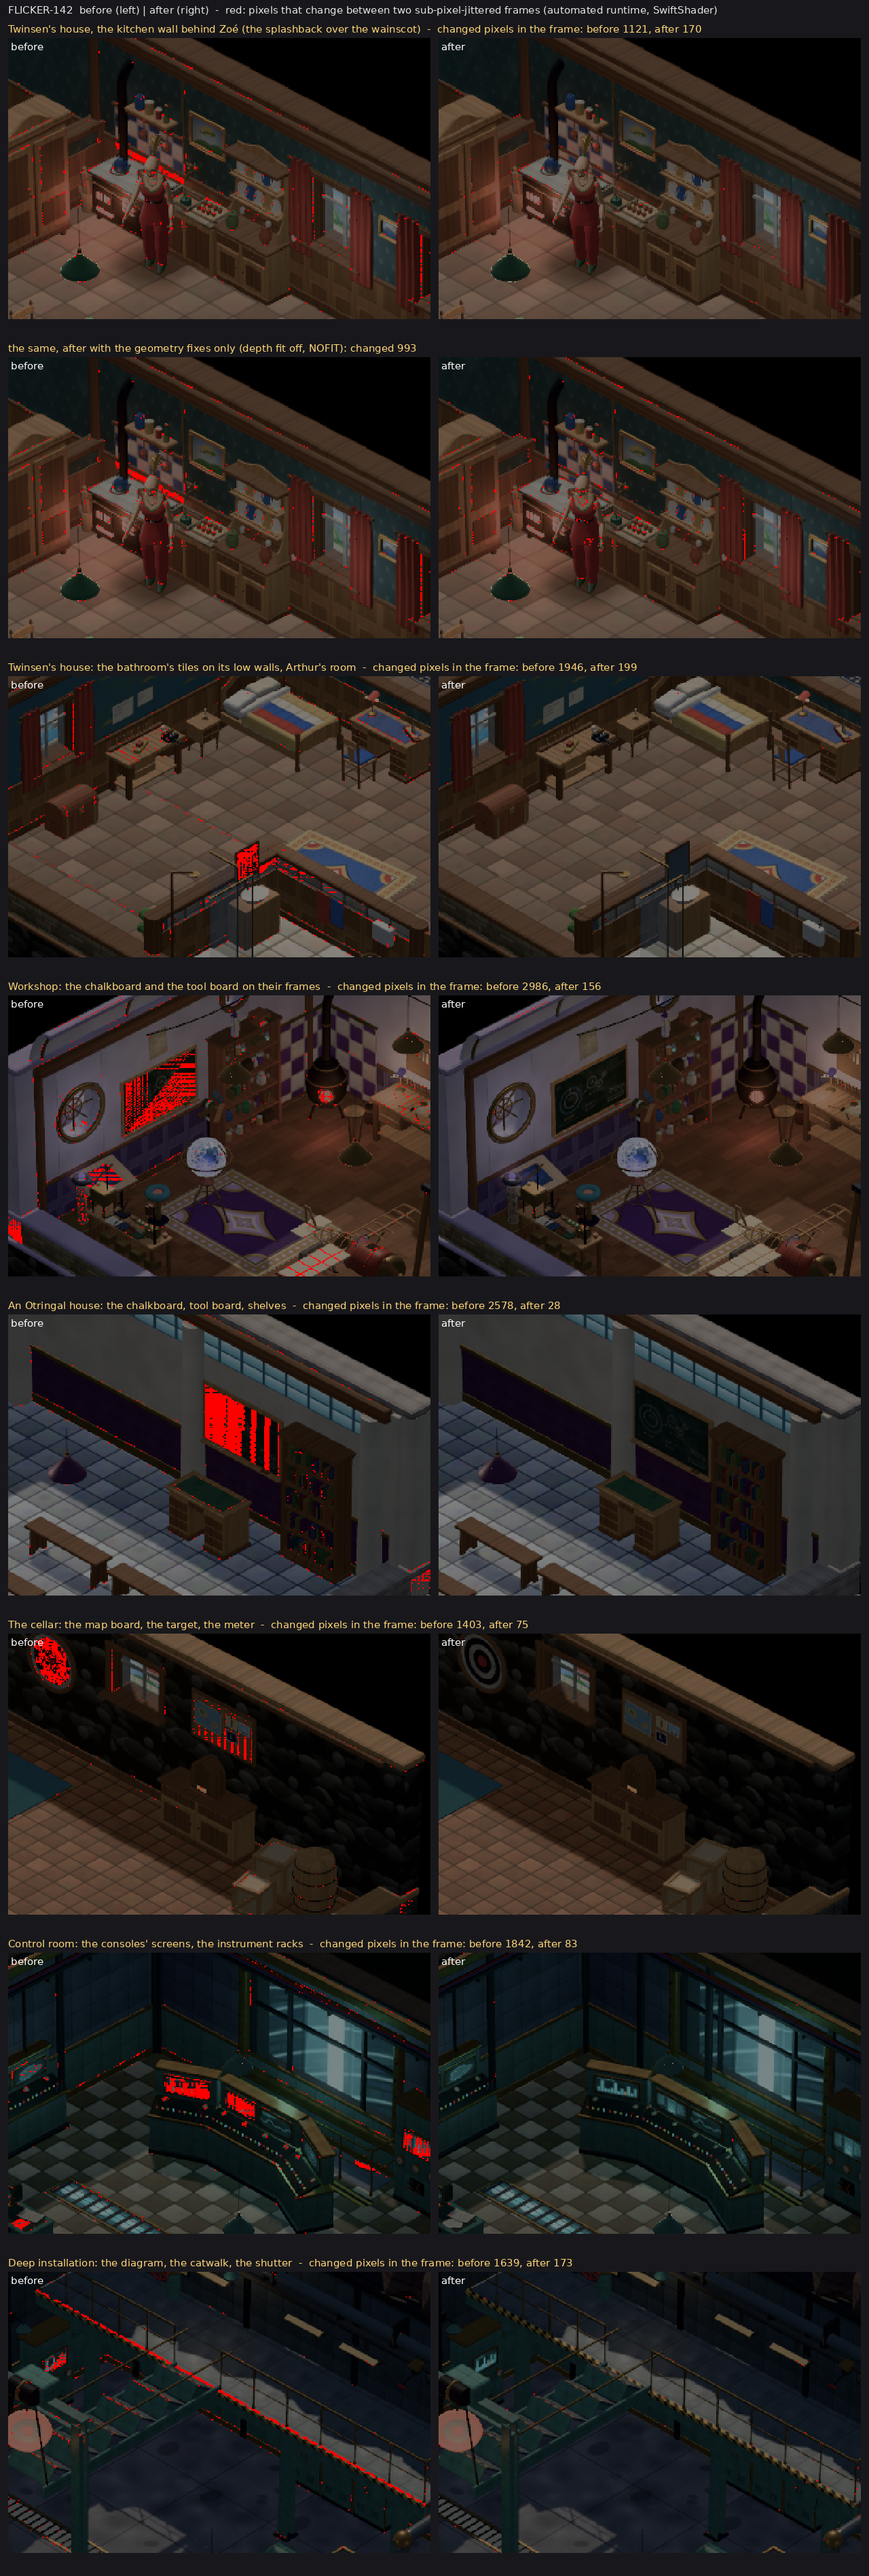
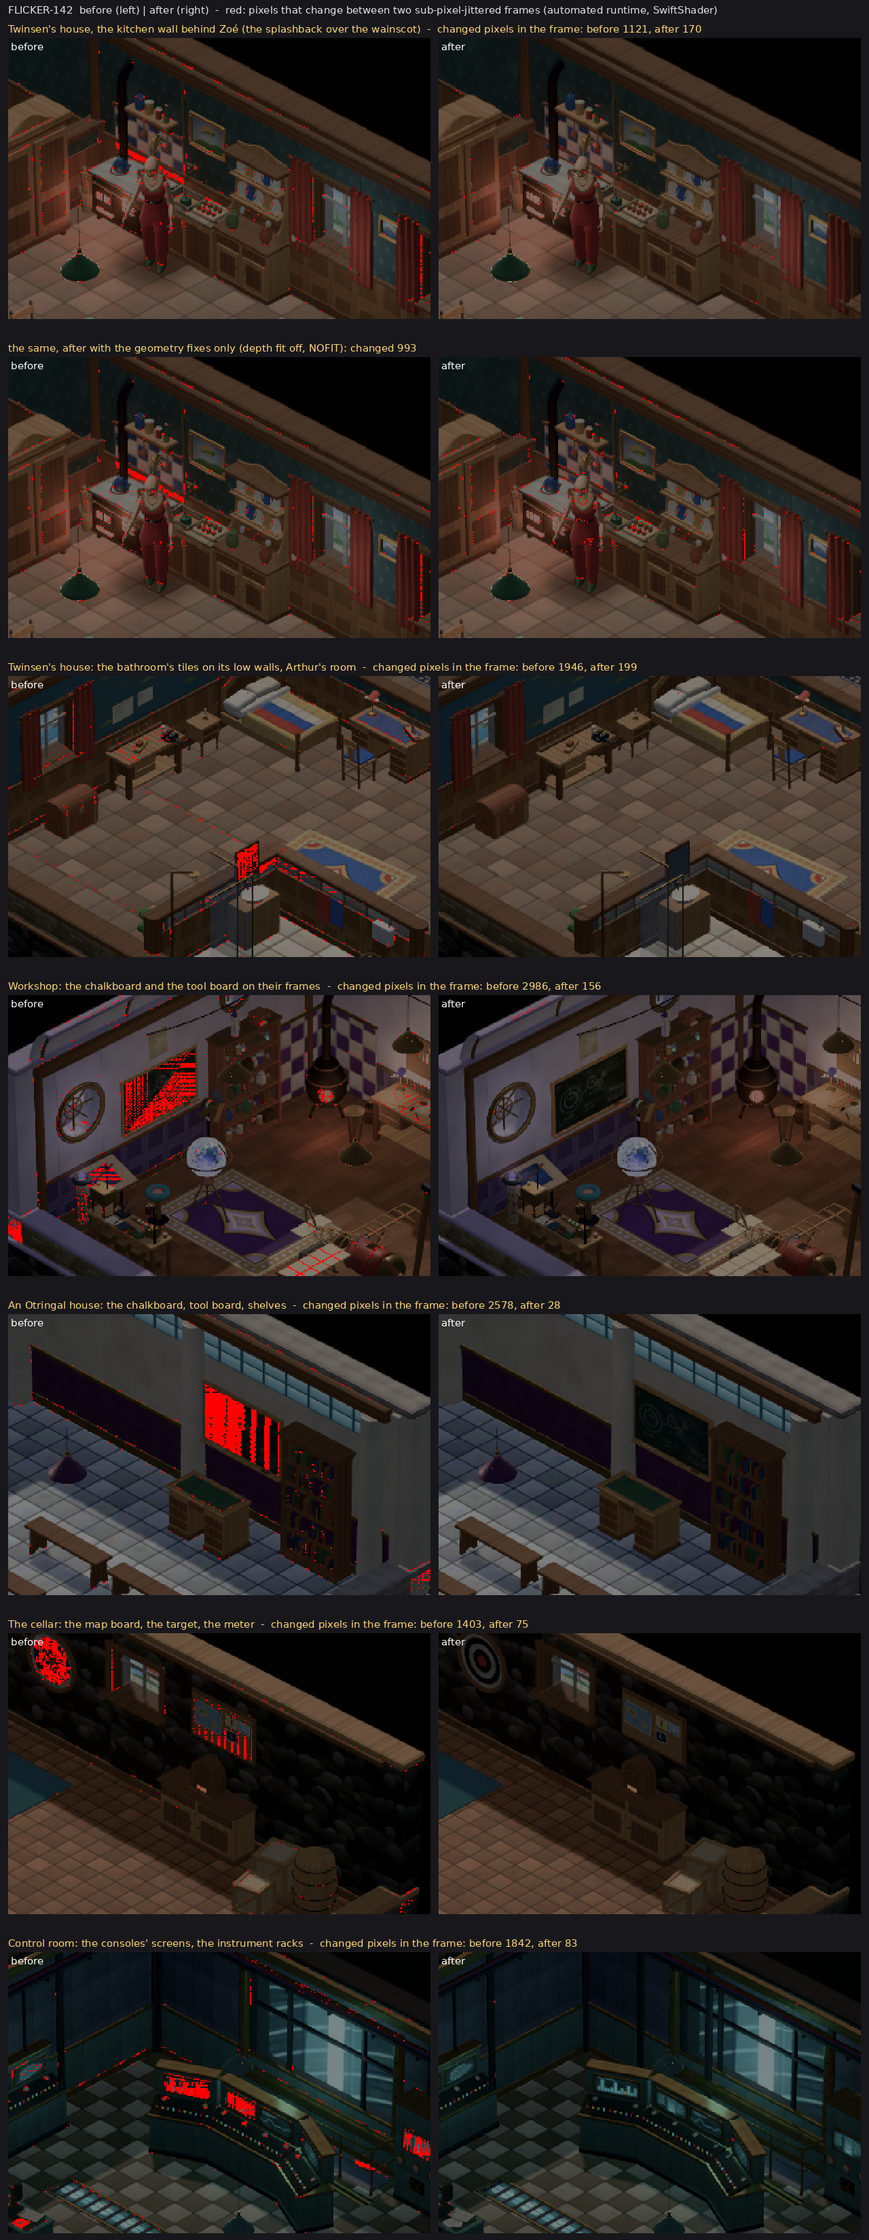
P142 merged (FLICKER-142: 137 rooms, 597 -> 0); the sheet's chapter 15-16 row cut (spoiler); checklist
Claude-Session: https://claude.ai/code/session_012GFEakZyL3XxjZKHRj5dFg

diff --git a/lba3/docs/lba-maturity/CHECKLIST.html b/lba3/docs/lba-maturity/CHECKLIST.html
@@ -10,10 +10,10 @@ h1{font-size:26px;margin:0 0 4px}h2{font-size:18px;margin:20px 0 6px;color:#2f7f
 <div class="i plain">גדולים: <b>0 / 5</b></div>
 <div class="i plain">מפרסמים ב־10 קטנים, ב־5 גדולים או כשאתה מבקש.</div>
 <h2>🔧 בעבודה</h2>
-<div class="i"><span class="b"></span>P142 הבהובים בחדרים: הקיר מאחורי זואי במטבח, ובדיקה של כל החדרים במשחק (מתחיל כשמתפנה עובד)</div>
 <div class="i"><span class="b"></span>P140 באיים: 45 מקומות לא נקיים בריצוף, וגם הצבע החם על הסלע בשולי האיים (P141)</div>
 <div class="i"><span class="b"></span>#66 שלב 2: 122 המקומות הנותרים, כולל מדרגות הכיכר</div>
 <h2>❓ מחכה לבחירה שלך</h2>
+<div class="i"><span class="b"></span>P142 ההבהובים בחדרים תוקנו בכל 137 החדרים: לראות את התמונות ולאשר (בבוקר)</div>
 <div class="i"><span class="b"></span>המעבד: מדרגה &quot;חסכונית במעבד&quot; (אנשים רחוקים זזים בחצי קצב, הצללים נשארים): להשאיר או להוריד (בבוקר)</div>
 <h2>💻 צריך את המחשב שלך</h2>
 <div class="i"><span class="b"></span>הוראות 76 (60 פריימים בלפטופ), 77 (לבדוק את v173), 78 (זמני פרקים מהשמירה, אחרי v174), 79 (ביצועים ב־GTX 1050, אחרי P137), 80 (מאיפה הריבוע השחור בטריילר)</div>

diff --git a/lba3/docs/lba-maturity/status.md b/lba3/docs/lba-maturity/status.md
@@ -220,7 +220,7 @@ v68 published 9.11 (1794197460-ceb9): Desert Island and the Hamalayi passes, DOO
 | P139 | 26.11 | Seen by the local agent: (a) the fort wall's stairs read too busy with the painted relief (DEPTH-LOOK e); (b) one frame with a big black square when switching to Aggressive (F3) in Citadel (maybe the capture) | ORDER-73, ORDER-75 | (b) the square is in both trailers (one frame after the F4 recorder resume), not reproduced in the game in automated runs; the frame removed from both trailers; cause open, order 80. (a) a candidate for the user |
 | P140 | 26.11 | "Still not complete!!!" on P136's own after picture (sheet row 2-3, Citadel north of the square, and the bottom of row 1): the paving ends in a ragged, noisy edge against a big dirt lot; a straight kerb faces open dirt; a kerbed dirt rectangle sits inside the paving. The user's crop: captures/paths-140/user-report.jpg | the user: "עדיין לא שלם!!!" | Citadel fixed and kept by the user (PATHS-140.md); the isles' 45 remaining faults + P141 + the 5 known-list questions: worker PATHS-140B. Was: worker PATHS-140, game-wide: every paving edge clean (kerbed or meeting a wall, lawn bed or water), no ragged paving-to-dirt edges, no dirt lots boxed in by paving; plus P136's answers: keep all 12 fixes; fix the WA-11 isle patches on every isle |
 | P141 | 26.11 | Found by the rock-edge worker, not the user: with the smooth rock edge, the isles' vertex tint (the sand-coloured shore tint and the grass) still follows the grid, leaving warm-tinted rock at the rims: Platform 141 m² (about 3857.7, 1810.3), Mosquibee 96, Under Celebration 57, Celebration 12 | ROCK-EDGES.md (Knartas patches, other isles) | open: after PATHS-140 (same file, zislands.js) |
-| P142 | 26.11 | Flicker (z-fighting) in rooms: the wall behind Zoé in the kitchen (Twinsen's house, the sink/range wall) | the user: "תבדוק הבהובים בחדרים הגיד מאחורי זואי במטבח ותיישם בכל המשחק" | open: worker FLICKER-142, game-wide over every interior (worldfit's z-fight scan only looks from the sky, so it never saw interior walls) |
+| P142 | 26.11 | Flicker (z-fighting) in rooms: the wall behind Zoé in the kitchen (Twinsen's house, the sink/range wall) | the user: "תבדוק הבהובים בחדרים הגיד מאחורי זואי במטבח ותיישם בכל המשחק" | fixed in branch 26.11 night (FLICKER-142.md): all 137 rooms, 597 → 0 failing clusters (tests/interior-flicker.mjs); a per-room depth fit (roomdepth.js, separate commit) + geometry gaps of 1–1.5 cm; small visible offsets listed in the doc; the user to see the sheet in the morning |
 
 ## Waves (cloud)
 

diff --git a/lba3/docs/lba-maturity/CHECKLIST.he.md b/lba3/docs/lba-maturity/CHECKLIST.he.md
@@ -8,11 +8,11 @@
 - מפרסמים ב־10 קטנים, ב־5 גדולים או כשאתה מבקש.
 
 ## 🔧 בעבודה
-- [ ] P142 הבהובים בחדרים: הקיר מאחורי זואי במטבח, ובדיקה של כל החדרים במשחק (מתחיל כשמתפנה עובד)
 - [ ] P140 באיים: 45 מקומות לא נקיים בריצוף, וגם הצבע החם על הסלע בשולי האיים (P141)
 - [ ] #66 שלב 2: 122 המקומות הנותרים, כולל מדרגות הכיכר
 
 ## ❓ מחכה לבחירה שלך
+- [ ] P142 ההבהובים בחדרים תוקנו בכל 137 החדרים: לראות את התמונות ולאשר (בבוקר)
 - [ ] המעבד: מדרגה "חסכונית במעבד" (אנשים רחוקים זזים בחצי קצב, הצללים נשארים): להשאיר או להוריד (בבוקר)
 
 ## 💻 צריך את המחשב שלך

diff --git a/lba3/docs/lba-maturity/FLICKER-142.md b/lba3/docs/lba-maturity/FLICKER-142.md
@@ -207,3 +207,5 @@ full log is in `captures/flicker-142/before.log.gz`.
 - **Long thin seams** are cut into many 0.6 m clusters, each under 0.02 m². The suite sums each room's clusters of one
   pair of pieces and lists the sums of 0.02 m² or more, but does not judge them.
 - **Real GPUs.** Not tested. SwiftShader's depth is not a GPU's, so real-GPU flicker can differ.
+
+> 26.11 (coordinator): the sheet's last row (the underground's deep installation, chapters 15–16) was cut from `captures/flicker-142/sheet.png`: no pictures of chapters 15–16 go to the user (spoiler rule). The fix there is unchanged.
